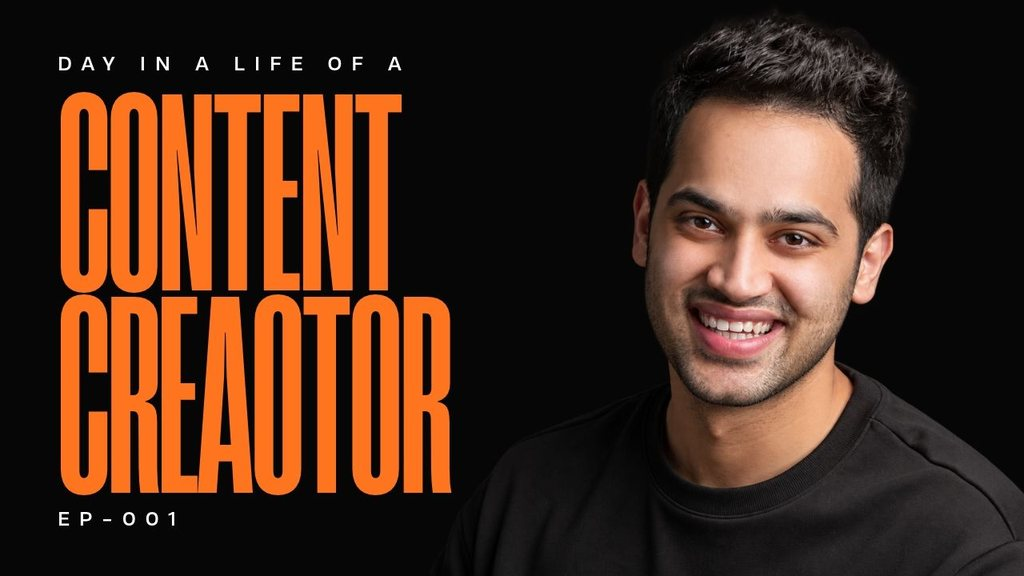
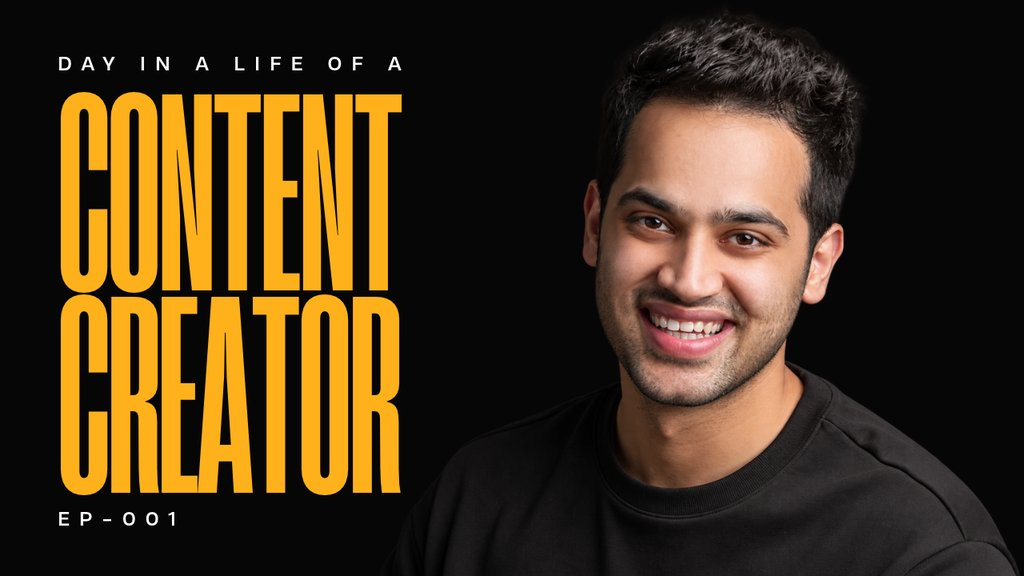
Corrected Content Creator thumbnail; version work file URLs
The client's fixed art (source-files/Rajshamani - Day in a life.png)
replaces the "CREAOTOR" one. work.js in each build now asks for every
thumbnail and reel by content hash, so a replaced file shows at once.

diff --git a/launch/preview/rawpile/shared/work.js b/launch/preview/rawpile/shared/work.js
@@ -1,13 +1,13 @@
 // Cutsway's own work, shown inside the worlds: thumbnails and a reel, with their labels.
 // Files sit in one folder; each page passes its path to that folder (it differs between the prototypes and a launch build).
 export const THUMBS = {
-  wealthy: { file: 'thumb-wealthy.jpg', label: '10 Things to Become Wealthy' },
-  stocks: { file: 'thumb-stocks.jpg', label: 'Top 10 Rising Stocks' },
-  creator: { file: 'thumb-creator.jpg', label: 'Day in the Life of a Content Creator' },
-  rawtalks: { file: 'thumb-rawtalks.jpg', label: 'Raw Talks with VK' },
-  'rawtalks-plain': { file: 'thumb-rawtalks-plain.jpg', label: 'Raw Talks with VK' },
+  wealthy: { file: 'thumb-wealthy.jpg?v=86802c3f', label: '10 Things to Become Wealthy' },
+  stocks: { file: 'thumb-stocks.jpg?v=55b8757f', label: 'Top 10 Rising Stocks' },
+  creator: { file: 'thumb-creator.jpg?v=60238ff9', label: 'Day in the Life of a Content Creator' },
+  rawtalks: { file: 'thumb-rawtalks.jpg?v=c8059422', label: 'Raw Talks with VK' },
+  'rawtalks-plain': { file: 'thumb-rawtalks-plain.jpg?v=50d1652e', label: 'Raw Talks with VK' },
 };
-export const REEL = { file: 'reel-podcast.mp4', small: 'reel-podcast-sm.mp4', label: 'Podcast short', seconds: 11 };
+export const REEL = { file: 'reel-podcast.mp4?v=d8d97103', small: 'reel-podcast-sm.mp4?v=9db36fb2', label: 'Podcast short', seconds: 11 };
 
 // thumbnails load in the background; an entry is drawable once .ready is true
 export function loadThumbs(dir, keys = Object.keys(THUMBS)) {

diff --git a/launch/rawpile/shared/work.js b/launch/rawpile/shared/work.js
@@ -1,13 +1,13 @@
 // Cutsway's own work, shown inside the worlds: thumbnails and a reel, with their labels.
 // Files sit in one folder; each page passes its path to that folder (it differs between the prototypes and a launch build).
 export const THUMBS = {
-  wealthy: { file: 'thumb-wealthy.jpg', label: '10 Things to Become Wealthy' },
-  stocks: { file: 'thumb-stocks.jpg', label: 'Top 10 Rising Stocks' },
-  creator: { file: 'thumb-creator.jpg', label: 'Day in the Life of a Content Creator' },
-  rawtalks: { file: 'thumb-rawtalks.jpg', label: 'Raw Talks with VK' },
-  'rawtalks-plain': { file: 'thumb-rawtalks-plain.jpg', label: 'Raw Talks with VK' },
+  wealthy: { file: 'thumb-wealthy.jpg?v=86802c3f', label: '10 Things to Become Wealthy' },
+  stocks: { file: 'thumb-stocks.jpg?v=55b8757f', label: 'Top 10 Rising Stocks' },
+  creator: { file: 'thumb-creator.jpg?v=60238ff9', label: 'Day in the Life of a Content Creator' },
+  rawtalks: { file: 'thumb-rawtalks.jpg?v=c8059422', label: 'Raw Talks with VK' },
+  'rawtalks-plain': { file: 'thumb-rawtalks-plain.jpg?v=50d1652e', label: 'Raw Talks with VK' },
 };
-export const REEL = { file: 'reel-podcast.mp4', small: 'reel-podcast-sm.mp4', label: 'Podcast short', seconds: 11 };
+export const REEL = { file: 'reel-podcast.mp4?v=d8d97103', small: 'reel-podcast-sm.mp4?v=9db36fb2', label: 'Podcast short', seconds: 11 };
 
 // thumbnails load in the background; an entry is drawable once .ready is true
 export function loadThumbs(dir, keys = Object.keys(THUMBS)) {

diff --git a/launch/nightshift/shared/work.js b/launch/nightshift/shared/work.js
@@ -1,13 +1,13 @@
 // Cutsway's own work, shown inside the worlds: thumbnails and a reel, with their labels.
 // Files sit in one folder; each page passes its path to that folder (it differs between the prototypes and a launch build).
 export const THUMBS = {
-  wealthy: { file: 'thumb-wealthy.jpg', label: '10 Things to Become Wealthy' },
-  stocks: { file: 'thumb-stocks.jpg', label: 'Top 10 Rising Stocks' },
-  creator: { file: 'thumb-creator.jpg', label: 'Day in the Life of a Content Creator' },
-  rawtalks: { file: 'thumb-rawtalks.jpg', label: 'Raw Talks with VK' },
+  wealthy: { file: 'thumb-wealthy.jpg?v=86802c3f', label: '10 Things to Become Wealthy' },
+  stocks: { file: 'thumb-stocks.jpg?v=55b8757f', label: 'Top 10 Rising Stocks' },
+  creator: { file: 'thumb-creator.jpg?v=60238ff9', label: 'Day in the Life of a Content Creator' },
+  rawtalks: { file: 'thumb-rawtalks.jpg?v=c8059422', label: 'Raw Talks with VK' },
   'rawtalks-plain': { file: 'thumb-rawtalks-plain.jpg', label: 'Raw Talks with VK' },
 };
-export const REEL = { file: 'reel-podcast.mp4', small: 'reel-podcast-sm.mp4', label: 'Podcast short', seconds: 11 };
+export const REEL = { file: 'reel-podcast.mp4', small: 'reel-podcast-sm.mp4?v=9db36fb2', label: 'Podcast short', seconds: 11 };
 
 // thumbnails load in the background; an entry is drawable once .ready is true
 export function loadThumbs(dir, keys = Object.keys(THUMBS)) {

diff --git a/launch/preview/nightshift/shared/work.js b/launch/preview/nightshift/shared/work.js
@@ -1,13 +1,13 @@
 // Cutsway's own work, shown inside the worlds: thumbnails and a reel, with their labels.
 // Files sit in one folder; each page passes its path to that folder (it differs between the prototypes and a launch build).
 export const THUMBS = {
-  wealthy: { file: 'thumb-wealthy.jpg', label: '10 Things to Become Wealthy' },
-  stocks: { file: 'thumb-stocks.jpg', label: 'Top 10 Rising Stocks' },
-  creator: { file: 'thumb-creator.jpg', label: 'Day in the Life of a Content Creator' },
-  rawtalks: { file: 'thumb-rawtalks.jpg', label: 'Raw Talks with VK' },
+  wealthy: { file: 'thumb-wealthy.jpg?v=86802c3f', label: '10 Things to Become Wealthy' },
+  stocks: { file: 'thumb-stocks.jpg?v=55b8757f', label: 'Top 10 Rising Stocks' },
+  creator: { file: 'thumb-creator.jpg?v=60238ff9', label: 'Day in the Life of a Content Creator' },
+  rawtalks: { file: 'thumb-rawtalks.jpg?v=c8059422', label: 'Raw Talks with VK' },
   'rawtalks-plain': { file: 'thumb-rawtalks-plain.jpg', label: 'Raw Talks with VK' },
 };
-export const REEL = { file: 'reel-podcast.mp4', small: 'reel-podcast-sm.mp4', label: 'Podcast short', seconds: 11 };
+export const REEL = { file: 'reel-podcast.mp4', small: 'reel-podcast-sm.mp4?v=9db36fb2', label: 'Podcast short', seconds: 11 };
 
 // thumbnails load in the background; an entry is drawable once .ready is true
 export function loadThumbs(dir, keys = Object.keys(THUMBS)) {

diff --git a/launch/preview/rawpile/index.html b/launch/preview/rawpile/index.html
@@ -200,7 +200,7 @@
   import { createWorld, chapterTracker, reduce, phone, ease, clamp01, canvasTex, drawGame, font, dotTexture, fontsReady } from './shared/kit.js?v=415acb47';
   import { specAt, specGradient, drawLogo, LOGO, BG, YELLOW, ORANGE, RED, CYAN, BLUE, PAPER, GAME_BRAND } from './shared/brand.js?v=1817101b';
   import { PLATFORM_KEYS, drawPostCard } from './shared/platforms.js?v=56c2c6ce';
-  import { loadThumbs, reelVideo, keepPlaying, REEL } from './shared/work.js?v=bf40ed92';
+  import { loadThumbs, reelVideo, keepPlaying, REEL } from './shared/work.js?v=6929363b';
 
   const world = createWorld({ bloom: [0.5, 0.5, 0.88], fov: 38, bg: BG });
   const { scene, camera } = world;

diff --git a/launch/rawpile/index.html b/launch/rawpile/index.html
@@ -200,7 +200,7 @@
   import { createWorld, chapterTracker, reduce, phone, ease, clamp01, canvasTex, drawGame, font, dotTexture, fontsReady } from './shared/kit.js?v=415acb47';
   import { specAt, specGradient, drawLogo, LOGO, BG, YELLOW, ORANGE, RED, CYAN, BLUE, PAPER, GAME_BRAND } from './shared/brand.js?v=1817101b';
   import { PLATFORM_KEYS, drawPostCard } from './shared/platforms.js?v=56c2c6ce';
-  import { loadThumbs, reelVideo, keepPlaying, REEL } from './shared/work.js?v=bf40ed92';
+  import { loadThumbs, reelVideo, keepPlaying, REEL } from './shared/work.js?v=6929363b';
 
   const world = createWorld({ bloom: [0.5, 0.5, 0.88], fov: 38, bg: BG });
   const { scene, camera } = world;

diff --git a/launch/nightshift/index.html b/launch/nightshift/index.html
@@ -163,7 +163,7 @@
   import { specAt, specGradient, drawLogo, drawLogoNeon, PAPER, INK, MUTED, YELLOW, CYAN, BLUE, RED, ORANGE, GAME_BRAND } from './shared/brand.js?v=1817101b';
   import { loadEditor } from './editor.js';
   import { drawMark } from './shared/platforms.js?v=56c2c6ce';
-  import { loadThumbs, reelVideo, keepPlaying, frameReady, drawFit, THUMBS } from './shared/work.js?v=bf40ed92';
+  import { loadThumbs, reelVideo, keepPlaying, frameReady, drawFit, THUMBS } from './shared/work.js?v=80019117';
 
   const BG = '#07070a';
   const world = createWorld({ bloom: [0.42, 0.5, 0.88], shadows: true, fov: 40, bg: BG });

diff --git a/launch/preview/nightshift/index.html b/launch/preview/nightshift/index.html
@@ -163,7 +163,7 @@
   import { specAt, specGradient, drawLogo, drawLogoNeon, PAPER, INK, MUTED, YELLOW, CYAN, BLUE, RED, ORANGE, GAME_BRAND } from './shared/brand.js?v=1817101b';
   import { loadEditor } from './editor.js';
   import { drawMark } from './shared/platforms.js?v=56c2c6ce';
-  import { loadThumbs, reelVideo, keepPlaying, frameReady, drawFit, THUMBS } from './shared/work.js?v=bf40ed92';
+  import { loadThumbs, reelVideo, keepPlaying, frameReady, drawFit, THUMBS } from './shared/work.js?v=80019117';
 
   const BG = '#07070a';
   const world = createWorld({ bloom: [0.42, 0.5, 0.88], shadows: true, fov: 40, bg: BG });

diff --git a/tools/build_launch.py b/tools/build_launch.py
@@ -140,6 +140,13 @@ def build(name):
             im = Image.open(dst / b)
             if im.width > 1280:
                 im.resize((1280, round(im.height * 1280 / im.width)), Image.LANCZOS).convert('RGB').save(dst / b, quality=82, optimize=True, progressive=True)
+    # the work files keep their names when replaced, so work.js asks for them by content hash (same reason as below)
+    work = (dst / 'shared' / 'work.js').read_text(encoding='utf-8')
+    for b in cfg['assets']:
+        if b.startswith('assets/work/'):
+            n = b.rsplit('/', 1)[1]
+            work = work.replace(f"'{n}'", f"'{n}?v={hashlib.md5((dst / b).read_bytes()).hexdigest()[:8]}'")
+    (dst / 'shared' / 'work.js').write_text(work, encoding='utf-8')
 
     html = (src / 'index.html').read_text(encoding='utf-8')
     # './' keeps module imports valid (bare 'shared/x.js' is not a legal import specifier)
@@ -149,7 +156,7 @@ def build(name):
     # the CDN and browsers keep shared files for days: a content hash in each URL makes an update fetch only what changed,
     # and never pairs a new page with an old stylesheet
     for f in SHARED:
-        v = hashlib.md5((PROTO / 'shared' / f).read_bytes()).hexdigest()[:8]
+        v = hashlib.md5((dst / 'shared' / f).read_bytes()).hexdigest()[:8]
         html = re.sub(rf"(\./shared/{re.escape(f)})(?=[\"'])", rf'\g<1>?v={v}', html)
     left = re.findall(r'\.\./[\w/._-]+', html)
     assert not left, f'{name}: paths still point outside the site: {left}'
